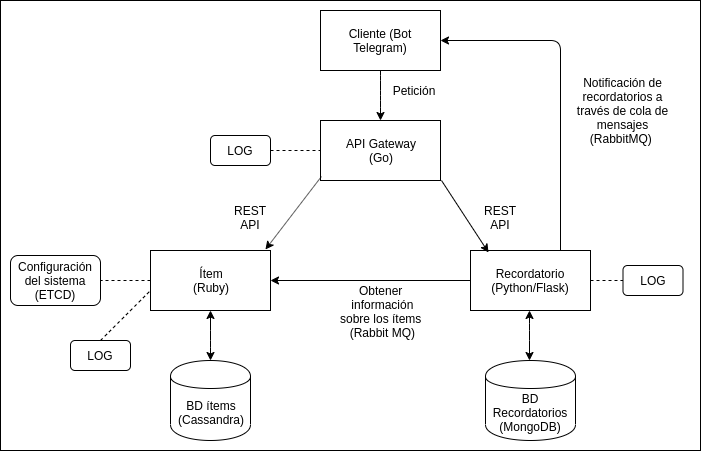
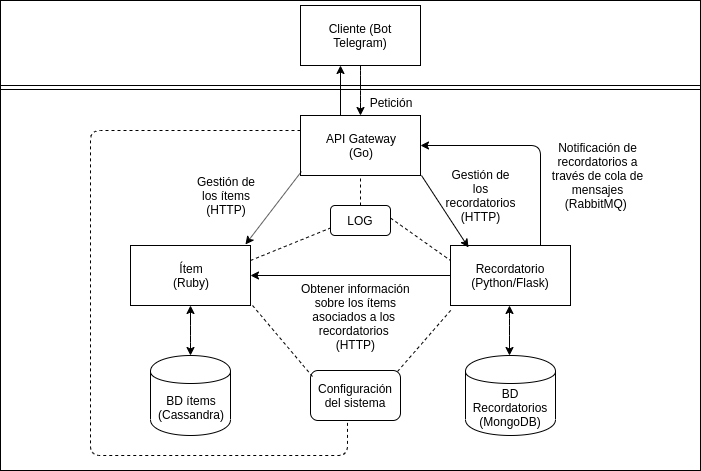
Terminando descripción completa de la arquitectura. closes #5

diff --git a/README.md b/README.md
@@ -1,109 +1,12 @@
 # PersonalAgenda
 
-### Descripción de la aplicación
-
 **PersonalAgenda** es una aplicación, que se va a desplegar en la nube, la cual consiste en una agenda en la que se van
 a poder incluir tareas a hacer, citas, eventos, reuniones o recordatorios, que pueden ser personales o grupales. 
 
-Una vez introducida la aplicación, se van a exponer las entidades que componen el sistema, las cuales son:
+Esta aplicación es el proyecto del alumno Alberto Silvestre Montes Linares para la asignatura Cloud Computing del máster
+en Ingeniería Información de la Universidad de Granada (UGR).
 
-1\) Ítem
+Más información sobre el proyecto:
 
-Un ítem es un acontecimiento que se añade en la agenda personal, como puede ser una tarea a hacer, una cita, un evento 
-o una reunión, el cual puede pertenecer a varias agendas; en consecuencia, aquí se puede deducir, que una agenda 
-personal va a estar formada por una lista de ítems. Por lo tanto, este ítem estará compuesto por un título, una 
-descripción, una fecha de inicio, la duración, la persona administradora de este y las personas asociadas al ítem (si 
-las hay, esto no ocurre en acontecimientos individuales). Entre sus funcionalidades, destacamos las siguientes:
-
-- Crear un ítem.
-- Eliminar un ítem ya incluido.
-- Actualizar los datos del ítem.
-- Una persona no podrá tener dos acontecimientos a la misma hora, por lo que ninguno se podrá solapar.
-- Devolver la agenda personal entre 2 fechas.
-- Añadir una persona al ítem, comprobando que no tiene ningún ítem solapado con este ni esté ya agregado a él.
-- Eliminar a una persona de un ítem ya creado.
-- Si el creador o administrador del ítem se elimina a sí mismo, este deberá asignar a una persona administradora del ítem.
-- Repetir un ítem, indicando, la frecuencia con la que se repite y fecha de finalización de la repetición; 
-si al repetir el ítem en una fecha determinada, ya existe uno a esa hora para alguno de los asistentes, esta repetición 
-del ítem no se insertaría para él.
-- Solo el administrador del ítem podrá modificarlo, eliminarlo o repetirlo, así como añadir o eliminar personas de este.
-
-2\) Recordatorio
-
-A un ítem se le podrán asociar recordatorios del acontecimiento, los cuales serán personales o grupales, siendo estos 
-últimos solamente incluidos, modificados e eliminados por el administrador del ítem. Los recordatorios grupales estarán
-formados por el ítem y, la frecuencia de recuerdo o el momento en el que se quiere recordar; los recordatorios 
-personales, son recordatorios que aparte se componen de la persona asociada al recordatorio, puesto que el recordatorio
-personal puede ser para un acontecimiento personal o grupal. Por tanto, la funcionalidad de esta entidad es la 
-siguiente: 
-
-- Crear un recordatorio personal.
-- Eliminar un recordatorio personal.
-- Modificar los datos de un recordatorio personal.
-- Crear un recordatorio grupal.
-- Eliminar un recordatorio grupal.
-- Modificar los datos de un recordatorio grupal.
-- Notificar recordatorio a todos los asistentes al ítem.
-- Listar los recordatorios de una persona.
-
-Esta aplicación se ha creado para poder tener una agenda personal online, sin necesidad de tener una agenda en papel o 
-una libreta para ello, de cara a apuntar las tareas a hacer en la facultad, exámenes o presentaciones a los que hay que 
-asistir o citas personales que se tengan; por lo que esta aplicación sería de gran utilidad para el futuro.
-
-### Arquitectura y Tecnologías
-
-La arquitectura que se va a usar para esta aplicación es una basada en microservicios, en la cual cada 
-entidad del problema será un microservicio, desplegando así de forma independiente la lógica de cada uno de los 
-elementos principales del problema. 
-
-Ahora, se va a exponer un diagrama que representa la arquitectura de la aplicación:
-
-![Diagrama arquitectura](docs/images/arquitectura_cc.png)
-
-En él, se puede observar que va a haber un cliente, que en este caso, es un bot de Telegram, pero podría ser una web o 
-una aplicación (aunque, en ese caso, se tendría que añadir un microservicio para la gestión de usuarios, ya que en esta
-aplicación se pasa la autentación de los usuarios a Telegram); pues bien, este cliente, se va a comunicar con nuestro 
-servidor a través de una API Gateway, a la cual le enviará peticiones. 
-
-Esta API Gateway, se encargará de recibir las peticiones de cada cliente y pasárselas al microservicio más adecuado para
-su procesamiento, por lo que aquí, se ha optado por usar el lenguaje de programación Go, el cual permite controlar de 
-forma eficiente, sencilla y automática la concurrencia, para así poder procesar más rápidamente las peticiones de los 
-clientes. También, dispondrá de un sistema de logs para almacenar el historial de peticiones del sistema.
-
-Luego, el API Gateway, se encargará de enviar la petición al microservicio adecuado, los cuales montan una REST API, 
-encargada de gestionar las peticiones para esa entidad y, un sistema de logs para almacenar los resultados de ejecución
-de cada petición a esa entidad. Para la entidad `Item`, se ha optado por usar el lenguaje de programación Ruby, que es 
-un lenguaje interpretado, con una base de datos Apache Cassandra, la cual es una base de datos no relacional basado en 
-el modelo "clave-valor", eligiéndose debido a su eficiente sistema de indexación y, además garantiza que toda columna de 
-un registro tiene su correspondiente valor, siendo este nuestro caso para esta entidad; también, se va almacenar aquí la
-configuración del sistema. Para la entidad `Recordatorio`, se ha optado por usar el framework Flask, basado en Python, 
-otro lenguaje interpretado, que permite fácilmente montar API, junto con una base de datos MongoDB, la cual es una base 
-de datos no relacional orientada a documentos, elegida para esta entidad debido a su escabilidad, eficienta y, sobre 
-todo, por su flexibilidad en la estructura de datos, ya que va a haber recordartorios que no tengan personas asociadas, 
-los cuales serían los grupales.
-
-Respecto a la comunicación entre los microservicios, se va a usar RabbitMQ, para montar un broker de mensajería, en la 
-cual los recordatorios, van a acceder a los ítems, para obtener información sobre estos últimos, por lo que el flujo 
-aquí, sería el siguiente:
-
-    1) El recordatorio publica un mensaje a la cola de mensajes del ítem
-    para obtener información sobre él.
-    2) El ítem consume ese mensaje y publica un mensaje a la cola de
-    mensajes del recordatorio para devolver la información solicitada.
-    3) El recordatorio consume la respuesta a su mensaje.
-
-Por último, se va a montar otro broker de mensajería con RabbitMQ, para que un recordatorio publique una notificación de
-un recordatorio, en la cola de mensajes del cliente que vaya a consumir esa notificación.
-
-### Licencia
-
-Finalmente, se ha optado por escoger una licencia GNU General Public License v3.0, la cual permite a la comunidad hacer 
-lo que quiera con tu proyecto, excepto distribuir versiones cerradas del código ([Fuente](https://choosealicense.com/)). 
-
-### Información adicional
-
-También, se ha realizado una configuración del entorno para usar git y GitHub, el cual está disponible en el siguiente 
-[enlace](https://github.com/albertosml/PersonalReminder/blob/master/docs/configuracion_entorno.md).
-
-**Por último, indicar que esta aplicación es el proyecto del alumno Alberto Silvestre Montes Linares para la asignatura
-Cloud Computing.**
+- [Documentación](docs/README.md)
+- [Web](https://albertosml.github.io/PersonalAgenda/)

diff --git a/docs/README.md b/docs/README.md
@@ -12,8 +12,8 @@ Una vez introducida la aplicación, se van a exponer las entidades que componen 
 Un ítem es un acontecimiento que se añade en la agenda personal, como puede ser una tarea a hacer, una cita, un evento 
 o una reunión, el cual puede pertenecer a varias agendas; en consecuencia, aquí se puede deducir, que una agenda 
 personal va a estar formada por una lista de ítems. Por lo tanto, este ítem estará compuesto por un título, una 
-descripción, una fecha de inicio, la duración, la persona administradora de este y las personas asociadas al ítem (si 
-las hay, esto no ocurre en acontecimientos individuales). Entre sus funcionalidades, destacamos las siguientes:
+descripción, una fecha de inicio, la duración, la persona administradora de este y las personas asociadas al ítem (puede
+no haber, en el caso de los acontecimientos individuales). Entre sus funcionalidades, destacamos las siguientes:
 
 - Crear un ítem.
 - Eliminar un ítem ya incluido.
@@ -22,11 +22,14 @@ las hay, esto no ocurre en acontecimientos individuales). Entre sus funcionalida
 - Devolver la agenda personal entre 2 fechas.
 - Añadir una persona al ítem, comprobando que no tiene ningún ítem solapado con este ni esté ya agregado a él.
 - Eliminar a una persona de un ítem ya creado.
-- Si el creador o administrador del ítem se elimina a sí mismo, este deberá asignar a una persona administradora del ítem.
+- Cambiar organizador (administrador) del ítem, para ello el nuevo organizador tiene que ser un asistente al 
+acontecimiento y, si es así sus posiciones se verían intercambiadas.
 - Repetir un ítem, indicando, la frecuencia con la que se repite y fecha de finalización de la repetición; 
 si al repetir el ítem en una fecha determinada, ya existe uno a esa hora para alguno de los asistentes, esta repetición 
 del ítem no se insertaría para él.
-- Solo el administrador del ítem podrá modificarlo, eliminarlo o repetirlo, así como añadir o eliminar personas de este.
+- Restaurar un ítem eliminado.
+- Solo el organizador del ítem podrá modificarlo, eliminarlo, restaurarlo o repetirlo, así como añadir o eliminar 
+personas de este.
 
 2\) Recordatorio
 
@@ -38,11 +41,10 @@ personal puede ser para un acontecimiento personal o grupal. Por tanto, la funci
 siguiente: 
 
 - Crear un recordatorio personal.
-- Eliminar un recordatorio personal.
-- Modificar los datos de un recordatorio personal.
 - Crear un recordatorio grupal.
-- Eliminar un recordatorio grupal.
-- Modificar los datos de un recordatorio grupal.
+- Eliminar un recordatorio.
+- Restaurar un recordatorio ya eliminado.
+- Modificar la frecuencia de recuerdo de un recordatorio.
 - Notificar recordatorio a todos los asistentes al ítem.
 - Listar los recordatorios de una persona.
 
@@ -50,50 +52,9 @@ Esta aplicación se ha creado para poder tener una agenda personal online, sin n
 una libreta para ello, de cara a apuntar las tareas a hacer en la facultad, exámenes o presentaciones a los que hay que 
 asistir o citas personales que se tengan; por lo que esta aplicación sería de gran utilidad para el futuro.
 
-### Arquitectura y Tecnologías
+### Apartados
 
-La arquitectura que se va a usar para esta aplicación es una basada en microservicios, en la cual cada 
-entidad del problema será un microservicio, desplegando así de forma independiente la lógica de cada uno de los 
-elementos principales del problema. 
-
-Ahora, se va a exponer un diagrama que representa la arquitectura de la aplicación:
-
-![Diagrama arquitectura](images/arquitectura_cc.png)
-
-En él, se puede observar que va a haber un cliente, que en este caso, es un bot de Telegram, pero podría ser una web o 
-una aplicación (aunque, en ese caso, se tendría que añadir un microservicio para la gestión de usuarios, ya que en esta
-aplicación se pasa la autentación de los usuarios a Telegram); pues bien, este cliente, se va a comunicar con nuestro 
-servidor a través de una API Gateway, a la cual le enviará peticiones. 
-
-Esta API Gateway, se encargará de recibir las peticiones de cada cliente y pasárselas al microservicio más adecuado para
-su procesamiento, por lo que aquí, se ha optado por usar el lenguaje de programación Go, el cual permite controlar de 
-forma eficiente, sencilla y automática la concurrencia, para así poder procesar más rápidamente las peticiones de los 
-clientes. También, dispondrá de un sistema de logs para almacenar el historial de peticiones del sistema.
-
-Luego, el API Gateway, se encargará de enviar la petición al microservicio adecuado, los cuales montan una REST API, 
-encargada de gestionar las peticiones para esa entidad y, un sistema de logs para almacenar los resultados de ejecución
-de cada petición a esa entidad. Para la entidad `Item`, se ha optado por usar el lenguaje de programación Ruby, que es 
-un lenguaje interpretado, con una base de datos Apache Cassandra, la cual es una base de datos no relacional basado en 
-el modelo "clave-valor", eligiéndose debido a su eficiente sistema de indexación y, además garantiza que toda columna de 
-un registro tiene su correspondiente valor, siendo este nuestro caso para esta entidad; también, se va almacenar aquí la
-configuración del sistema. Para la entidad `Recordatorio`, se ha optado por usar el framework Flask, basado en Python, 
-otro lenguaje interpretado, que permite fácilmente montar API, junto con una base de datos MongoDB, la cual es una base 
-de datos no relacional orientada a documentos, elegida para esta entidad debido a su escabilidad, eficienta y, sobre 
-todo, por su flexibilidad en la estructura de datos, ya que va a haber recordartorios que no tengan personas asociadas, 
-los cuales serían los grupales.
-
-Respecto a la comunicación entre los microservicios, se va a usar RabbitMQ, para montar un broker de mensajería, en la 
-cual los recordatorios, van a acceder a los ítems, para obtener información sobre estos últimos, por lo que el flujo 
-aquí, sería el siguiente:
-
-    1) El recordatorio publica un mensaje a la cola de mensajes del ítem
-    para obtener información sobre él.
-    2) El ítem consume ese mensaje y publica un mensaje a la cola de
-    mensajes del recordatorio para devolver la información solicitada.
-    3) El recordatorio consume la respuesta a su mensaje.
-
-Por último, se va a montar otro broker de mensajería con RabbitMQ, para que un recordatorio publique una notificación de
-un recordatorio, en la cola de mensajes del cliente que vaya a consumir esa notificación.
+- [Arquitectura y Tecnologías](arquitectura.md)
 
 ### Licencia
 
@@ -103,7 +64,4 @@ lo que quiera con tu proyecto, excepto distribuir versiones cerradas del código
 ### Información adicional
 
 También, se ha realizado una configuración del entorno para usar git y GitHub, el cual está disponible en el siguiente 
-[enlace](https://github.com/albertosml/PersonalAgenda/blob/master/docs/configuracion_entorno.md).
-
-**Por último, indicar que esta aplicación es el proyecto del alumno Alberto Silvestre Montes Linares para la asignatura
-Cloud Computing.**
+[enlace](configuracion_entorno.md).

diff --git a/docs/arquitectura.md b/docs/arquitectura.md
@@ -1,0 +1,72 @@
+# Arquitectura y Tecnologías
+
+### Arquitectura
+
+La arquitectura que se va a usar para esta aplicación es una basada en microservicios, en la cual cada entidad del 
+problema será un microservicio, desplegando así de forma independiente la lógica de cada uno de los elementos 
+principales del problema. 
+
+Ahora, se va a exponer un diagrama que representa la arquitectura de la aplicación:
+
+![Diagrama Arquitectura](images/arquitectura_cc.png)
+
+En él, se puede observar que va a haber un cliente, que en este caso, es un bot de Telegram, pero podría ser una web o 
+una aplicación (aunque, en ese caso, se tendría que añadir un microservicio para la gestión de usuarios, ya que en esta
+aplicación se pasa la autentación de los usuarios a Telegram); pues bien, este cliente, se va a comunicar con nuestro 
+servidor a través de una API Gateway, a la cual le enviará peticiones. 
+
+Esta API Gateway, se encargará de recibir las peticiones de cada cliente y pasárselas al microservicio más adecuado para
+su procesamiento. Luego, cada microservicio monta una REST API, encargada de gestionar las peticiones para esa entidad 
+y, una base de datos, en la que se almacena la información sobre la entidad de cada microservicio.
+
+También, se dispondrá de un sistema de logs centralizado para almacenar el historial de peticiones del sistema, así 
+como de un sistema de almacenamiento de la configuración crítica de la aplicación (direcciones y puertos de los 
+microservicios, API keys, etc..), el cual va a estar centralizado. Tanto el API gateway como los microservicios, van a 
+estar conectados a estos dos sistemas, de los cuales se acaban de hablar.
+
+Respecto a la comunicación entre los microservicios, se va a usar el protocolo HTTP, para la transmisión de información 
+sobre los ítems a los recordatorios.
+
+Por último, se va a montar un broker de mensajería mediante el patrón `publish/subscribe` para las notificaciones de 
+recordatorios, donde el recordatorio publica un mensaje con el contenido de la notificación, a la cola de mensajes del 
+API gateway; luego, este API gateway consume el mensaje y envía la notificación correspondiente a esa persona. 
+
+# Tecnologías
+
+Ahora, se van a presentar las tecnologías (y bibliotecas), que van a usar los diferentes elementos de la aplicación:
+
+- API Gateway -> Para este elemento, se ha optado por usar el lenguaje [Go](https://golang.org/), el cual es compilado y 
+permite controlar de forma eficiente, sencilla y automática la concurrencia, pudiendo así procesar más rápidamente las 
+peticiones de los clientes al sistema, al poder atender más peticiones a la vez de forma eficiente. En concreto, se va a 
+usar el framework [KrakenD](https://github.com/devopsfaith/krakend), el cual permite montar una API Gateway que sea 
+sencilla de configurar (para conectar los microservicios), concurrente y de alto rendimiento, también, este framework 
+permite mantener un sistema de logs con el historial de peticiones del sistema.
+
+- Entidad `Item` -> Para este microservicio, se va a optar por usar el lenguaje de programación 
+[Ruby](https://www.ruby-lang.org/en/), que es un lenguaje interpretado; en concreto, se va a usar el lenguaje específico 
+para crear aplicaciones web, llamado [Sinatra](https://github.com/sinatra/sinatra), el cual permite montar una REST API 
+de manera muy sencilla, gestionando todo tipo de peticiones HTTP. La base de datos que va a usar este microservicio es 
+[Apache Cassandra](http://cassandra.apache.org/), la cual es una base de datos no relacional orientada a columnas, 
+eligiéndose debido a su escalibilidad, su tolerancia a fallos, su eficiente sistema de indexación y, garantizando además
+que toda columna de un registro tiene su correspondiente valor, siendo este nuestro caso para esta entidad; pues bien,
+para que esta base de datos se comunique con nuestro microservicio en Ruby, se va a usar la librería 
+[cassandra-driver](https://github.com/datastax/ruby-driver). También, se va almacenar aquí la configuración crítica del 
+sistema, usando un almacén clave-valor distribuido como es [etcd](https://github.com/etcd-io/etcd), el cual se puede 
+usar en Ruby de manera sencilla, a través de la librería [etcdv3](https://github.com/davissp14/etcdv3-ruby). Por último,
+para almacenar los logs de este microservicio, se va a usar la librería [logger](https://github.com/ruby/logger) y, para
+testear el microservicio se usará la librería [rack-test](https://github.com/rack-test/rack-test).
+
+- Entidad `Recordatorio` -> Para este microservicio, se ha optado por usar el framework 
+[Flask](http://flask.palletsprojects.com/en/1.1.x/), basado en un lenguaje de programación interpretado y, muy usado en 
+la actualidad, como es [Python](https://www.python.org/). Este microservicio va a tener asociada una base de datos no 
+relacional orientada a documentos, como es [MongoDB](https://www.mongodb.com/), elegida para esta entidad debido a su 
+escabilidad, eficiencia y, sobre todo, por su flexibilidad en la estructura de datos, ya que va a haber recordartorios 
+que no tengan personas asociadas, los cuales serían los grupales; la aplicación web se va a comunicar con la base de 
+datos a través de la librería [pymongo](https://api.mongodb.com/python/current/). Para los logs del microservicio, se va 
+a utilizar la librería [logging](https://docs.python.org/2/library/logging.html), la cual viene asociada ya de serie al 
+lenguaje. Por último, para obtener la información de los ítems asociados a los recordatorios, este microservicio hará 
+peticiones HTTP a la REST API creada para la entidad `Item`, usando la librería 
+[requests](https://requests.kennethreitz.org/en/master/); para las notificaciones de los usuarios a las personas 
+correspondientes, se montará un broker de mensajería con RabbitMQ, el cual usa el protocolo AMQP para las comunicaciones, 
+usando para ello la librería [pika](https://pika.readthedocs.io/en/stable/); para realizar los tests unitarios, se usará
+la librería [pytest](https://docs.pytest.org/en/latest/).
